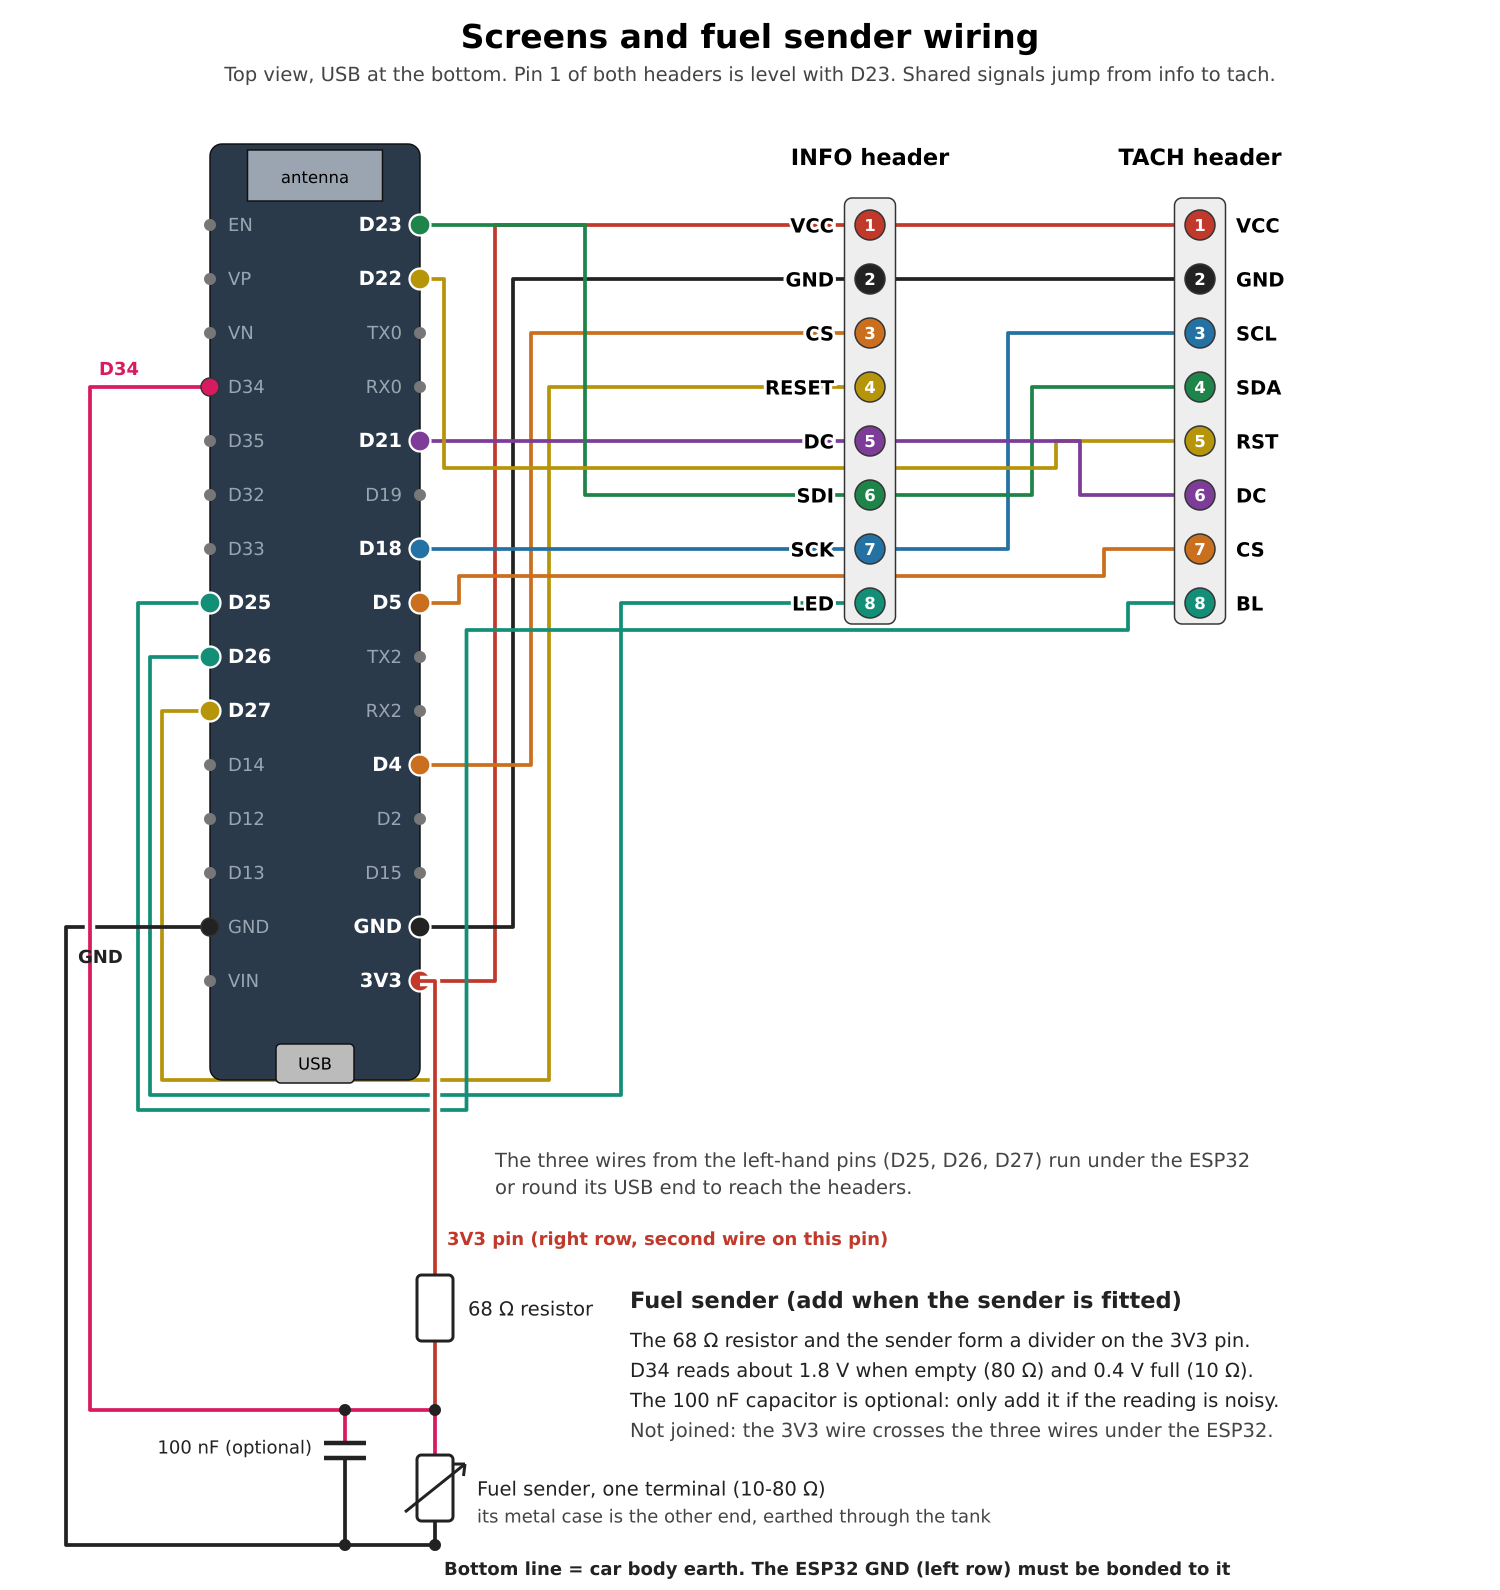
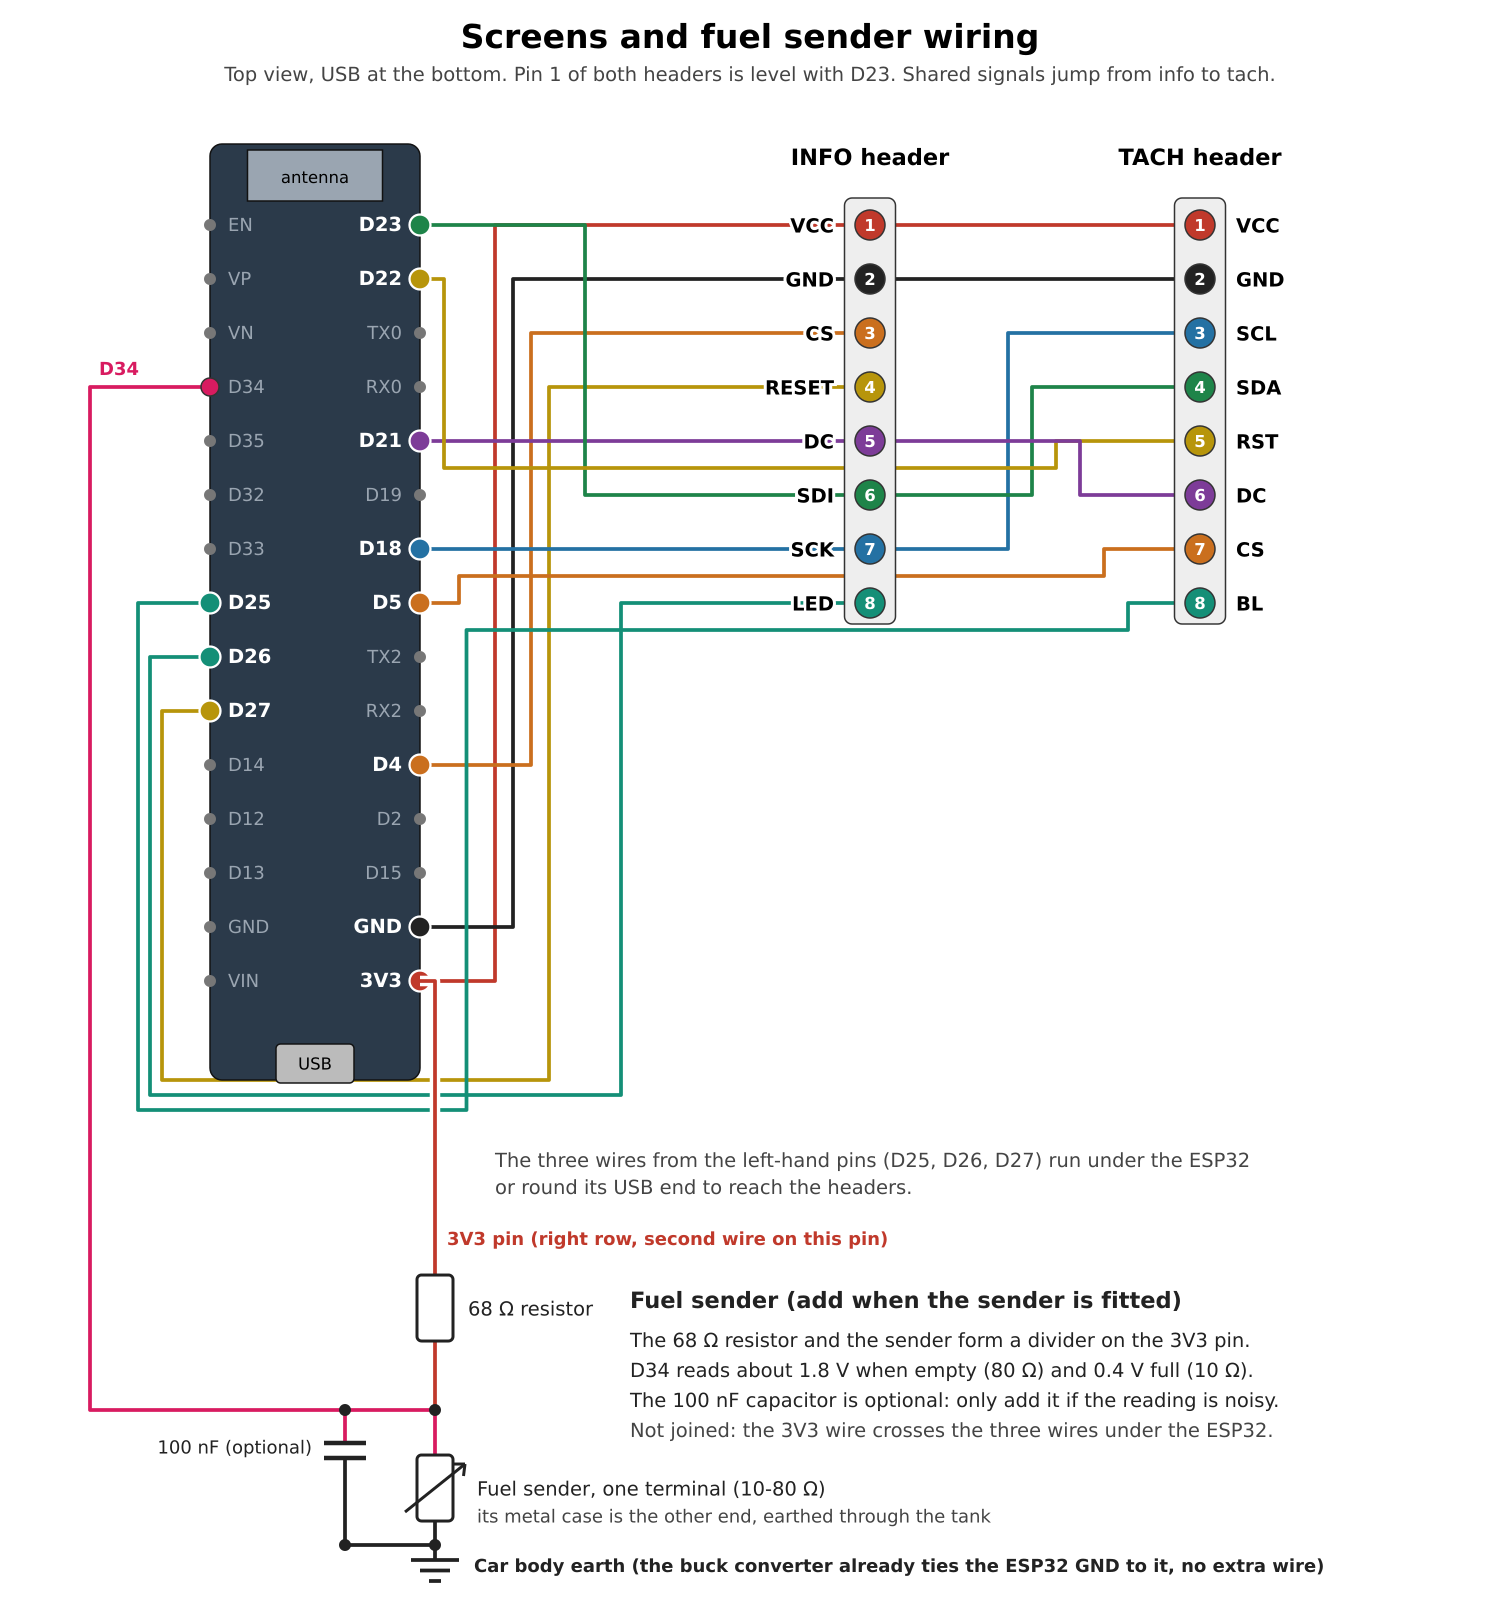
Diagram: drop the extra ground wire, buck converter already earths the ESP32

diff --git a/PROJECT_NOTES.md b/PROJECT_NOTES.md
@@ -225,3 +225,4 @@ Compiles (2026-11-14: `bridge_c3_sim`, `bridge_c3_live`, `dash`, `dash_sim` all 
 ## Possible oil pressure sensor (undecided, 2026-11-14)
 - Not needed through the ECU. Best place is a spare ADC pin on the bridge C3 (GPIO0-3 free; the sensor is on the engine next to it), carried to the dash as a new `Telemetry` field. Sensor type undecided: a stock VW oil sender is only a warning-light switch; a pressure sender is resistive or 0.5-4.5 V (needs a divider for the C3's 3.3 V).
 - Decision (user): if the bridge needs changing in future, continue the ESP-NOW update work on branch `bridge-espnow-update` (bench-test on the spare C3, one USB flash of the bridge) rather than pulling the bridge for USB each time.
+- Fuel sender wiring (user, 2026-11-14): the sender has ONE terminal (to the resistor/D34 junction); its case is the return through the tank and body. No separate ESP32 GND wire to it is needed because the dash buck converter is not isolated, so the ESP32 GND is already body earth.
